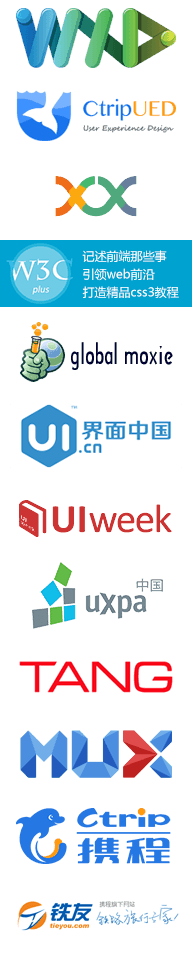
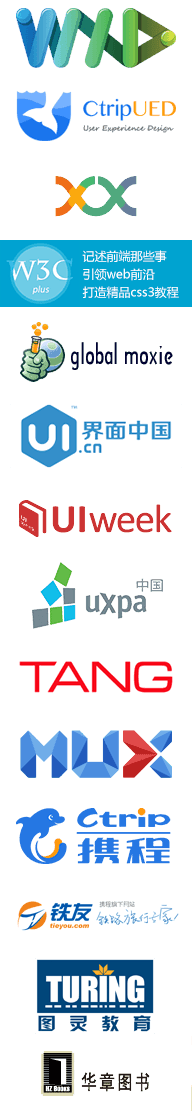
增加图灵、华章友情链接

diff --git a/index.html b/index.html
@@ -312,6 +312,8 @@
 			<a href="http://www.tang-consulting.com/" class="sponsor-tang" title="唐硕咨询" target="_blank">唐硕咨询</a>
 			<a href="http://www.upachina.org/" class="sponsor-uxpa" title="UXPA中国" target="_blank">UXPA中国</a>
 			<a href="http://www.tieyou.com/" class="sponsor-tieyou" title="铁友" target="_blank">铁友</a>
+			<a href="http://www.ituring.com.cn/" class="sponsor-turing" title="图灵" target="_blank">图灵</a>
+			<a href="http://www.hzbook.com/" class="sponsor-hzbook" title="华章" target="_blank">华章</a>
 		</div>
 	</div>
 	<footer>

diff --git a/styles/dft.css b/styles/dft.css
@@ -83,6 +83,8 @@ header.shown { top: 0 }
 .sponsors .sponsor-mux { background-position: 0 -360px; }
 .sponsors .sponsor-ctrip { background-position: 0 -400px; }
 .sponsors .sponsor-tieyou { background-position: 0 -440px; }
+.sponsors .sponsor-turing { background-position: 0 -480px; }
+.sponsors .sponsor-hzbook { background-position: 0 -520px; }
 
 footer { padding: 60px 0; background: #f0f0f0; font-size: 16px; font-weight: 100; }
 .footer-contact { float: right; }
